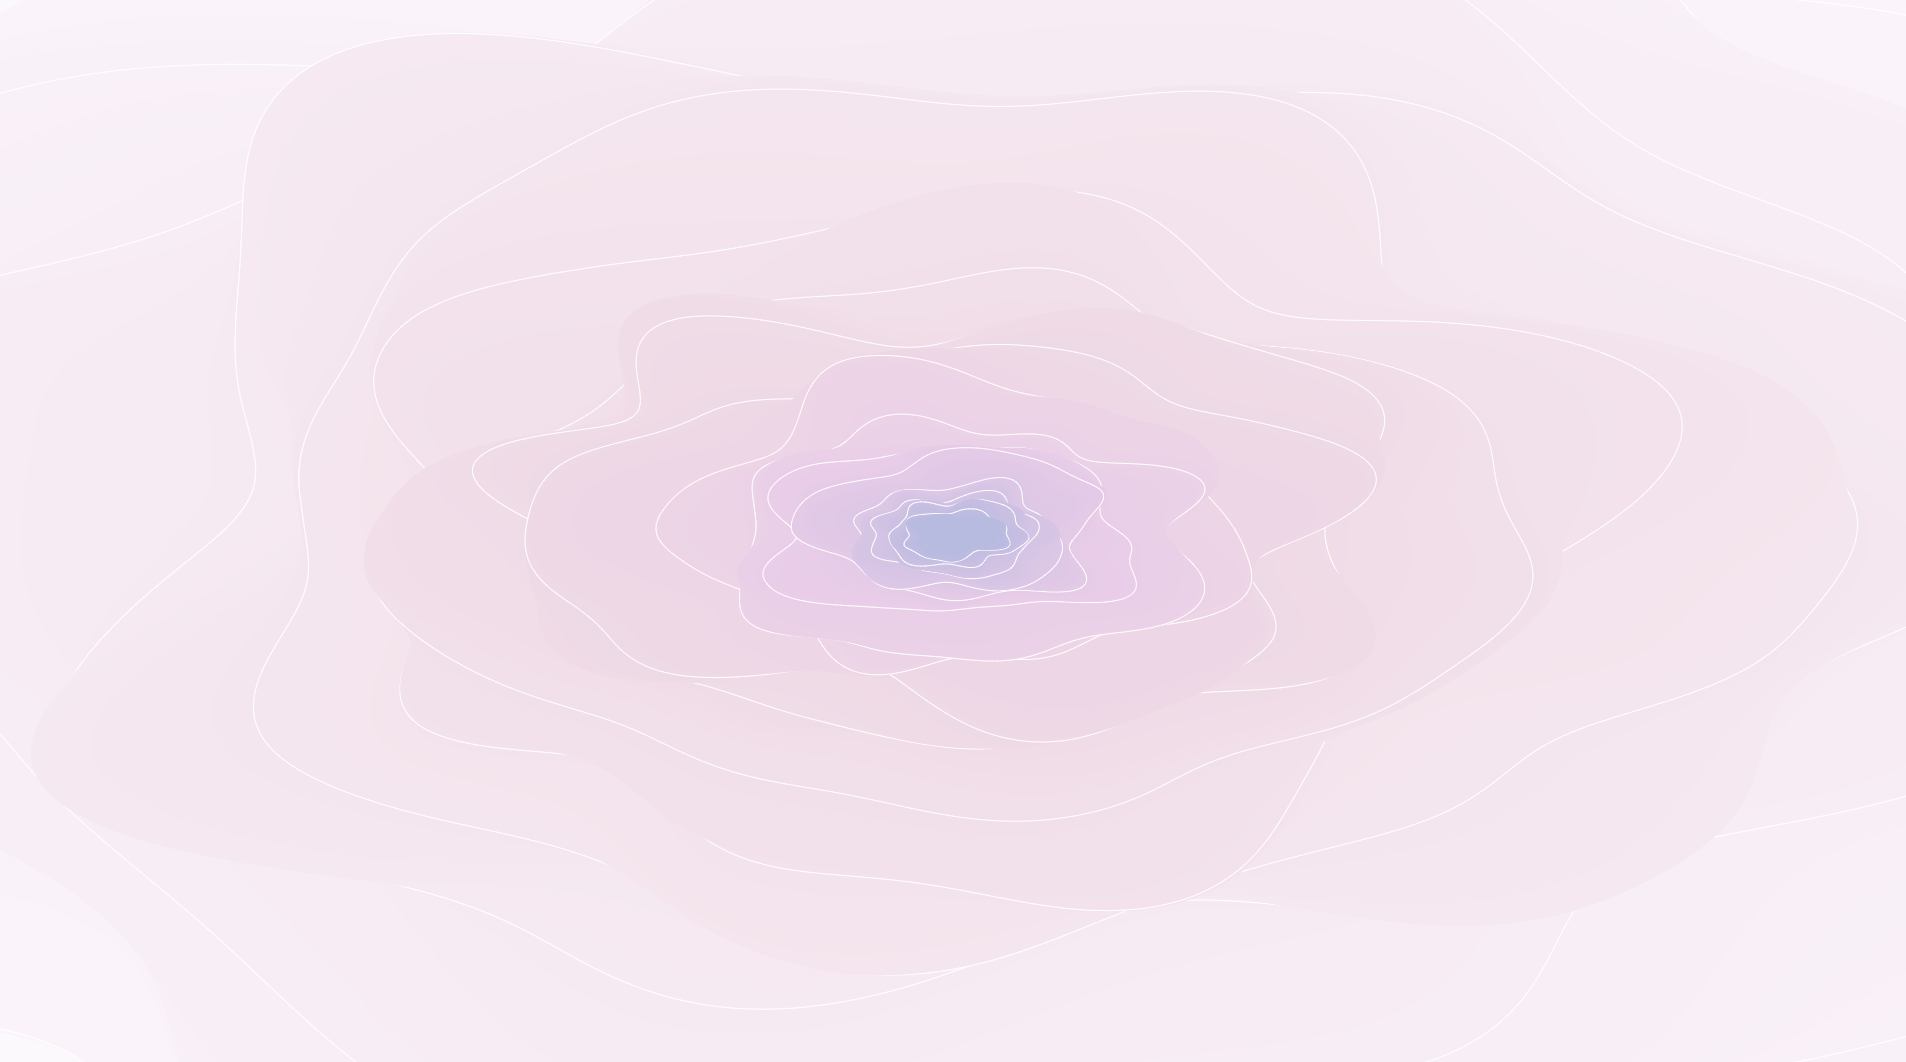
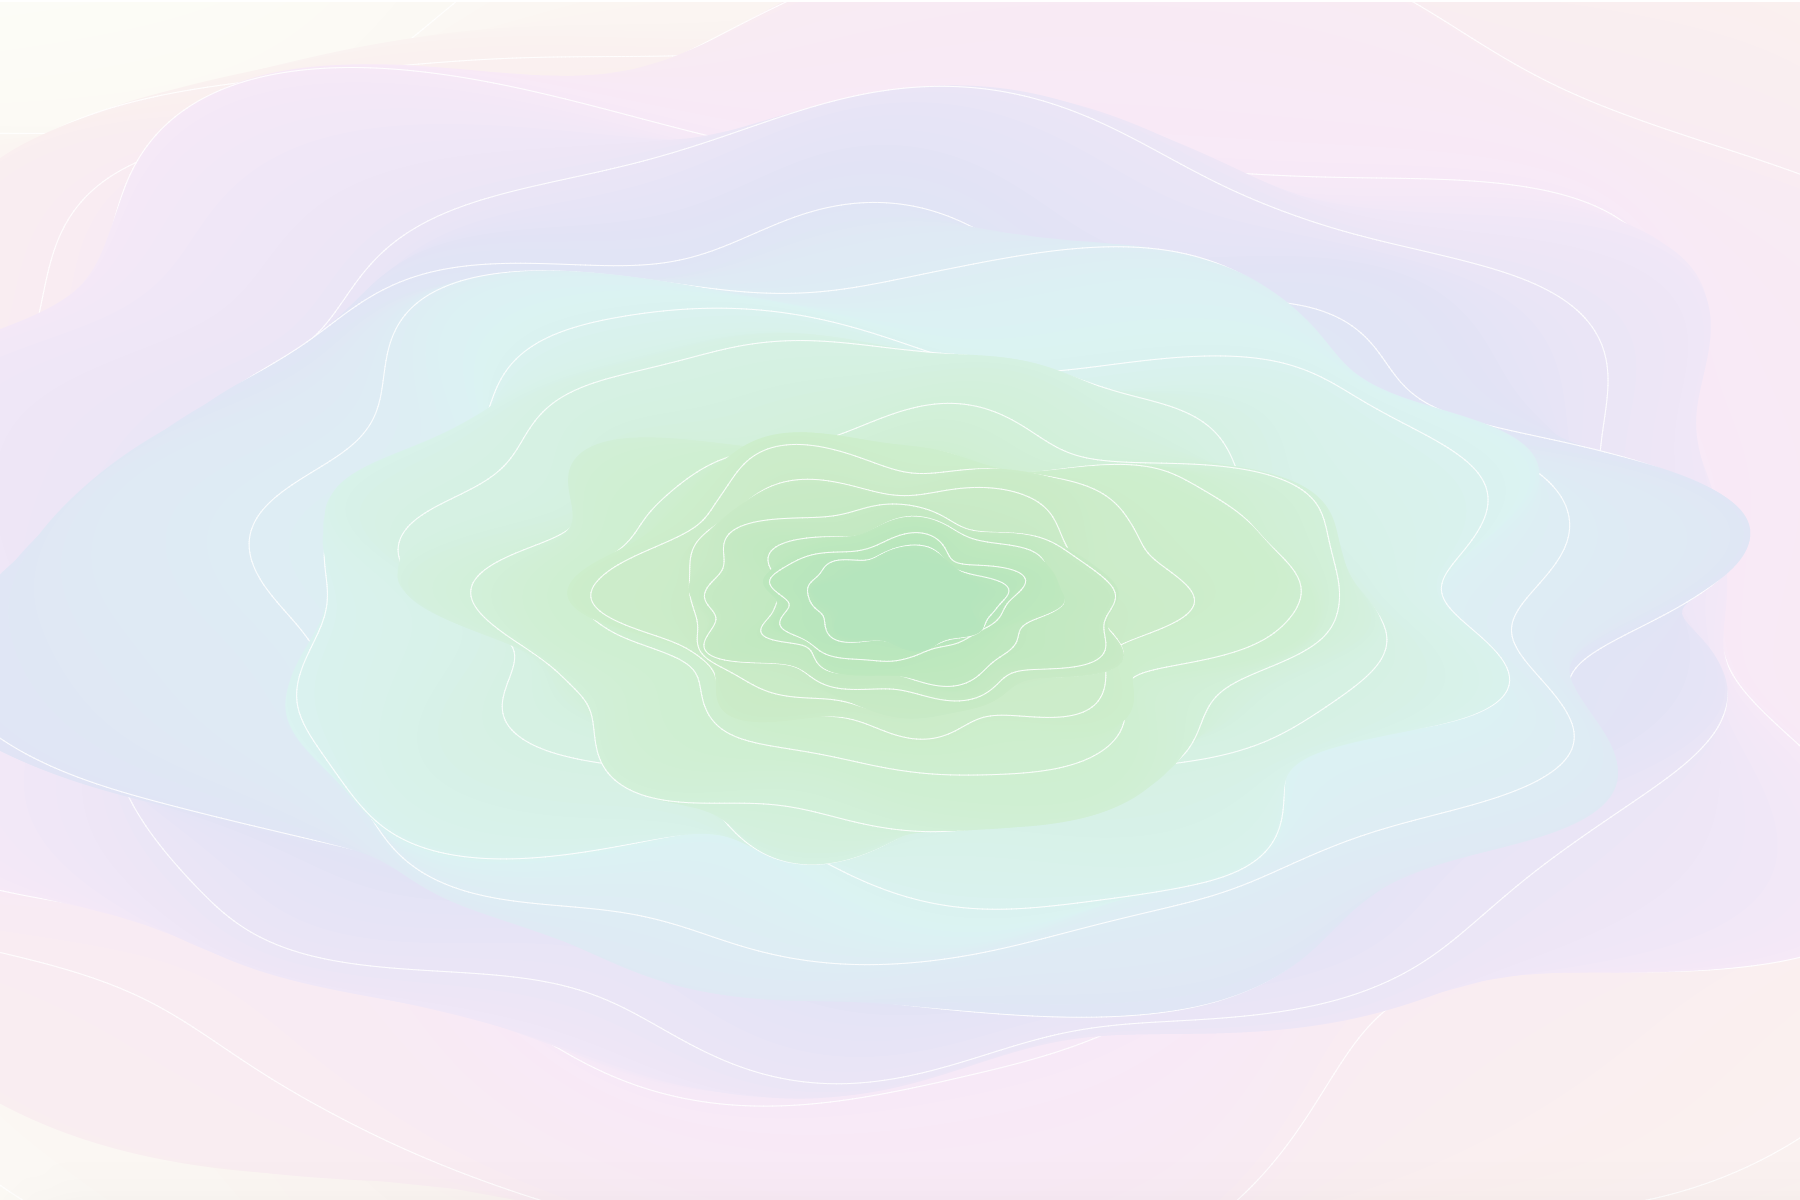
First

Changed region(s): [[0.1556, 0.2486, 0.84, 0.7458]]

diff --git a/graphics/bg.js b/graphics/bg.js
@@ -17,11 +17,11 @@ function drawFlower(circle,frequency, magnitude,independence, spacing,count) {
         // shrink the radius of the next circle
         current.radius *= Math.pow((1 - spacing),1+2*i/count);
     }
-    var svg = '<html><body><svg height="600" width="900" viewBox="-960 -540 1920 1080">';
+    var svg = '<html><body><svg height="100" width="900" viewBox="-960 -540 1920 1080">';
     for (var i=0;i<paths.length;i++){
     	h = noise2D(i/paths.length,1-i/paths.length)*360;
     	s = '50%';
-    	l = (100-i*20/paths.length)+'%';
+    	l = (30-i*20/paths.length)+'%';
     	if (i%10==0){
     		svg += '<path fill="hsl('+h+','+s+','+l+')" stroke="white" d="'+paths[i]+'" />';
     	}
